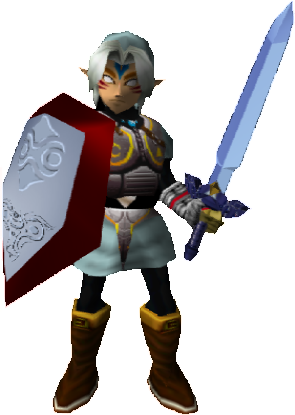
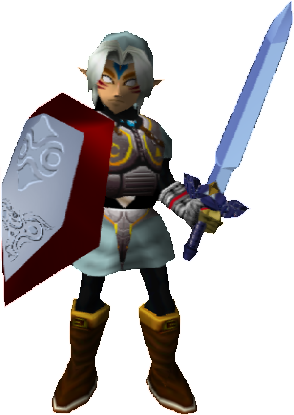
Add Princess Ruto from Hyrule Warriors, updated readme

diff --git a/oot/README.md b/oot/README.md
@@ -93,6 +93,9 @@ Here are custom player models completely developer approved.
 ### Princess Ruto from The Legend of Zelda: Ocarina of Time
 #### By [Unesag](https://github.com/Unesag/Z64-CustomPlayerModels)
 [![Download](img/PrincessRutoChild.png)](https://github.com/hylian-modding/Z64-CustomPlayerModels/raw/master/oot/pak/PrincessRutoChild.pak)
+### Princess Ruto from Hyrule Warriors
+#### By [Unesag](https://github.com/Unesag/Z64-CustomPlayerModels)
+[![Download](img/PrincessRutoGirl.png)](https://github.com/hylian-modding/Z64-CustomPlayerModels/raw/master/oot/pak/PrincessRutoGirl.pak)
 ### Princess Zelda from The Legend of Zelda: The Wind Waker
 #### By [Unesag](https://github.com/Unesag/Z64-CustomPlayerModels)
 [![Download](img/PrincessZeldaWW.png)](https://github.com/hylian-modding/Z64-CustomPlayerModels/raw/master/oot/pak/PrincessZeldaWW.pak)
